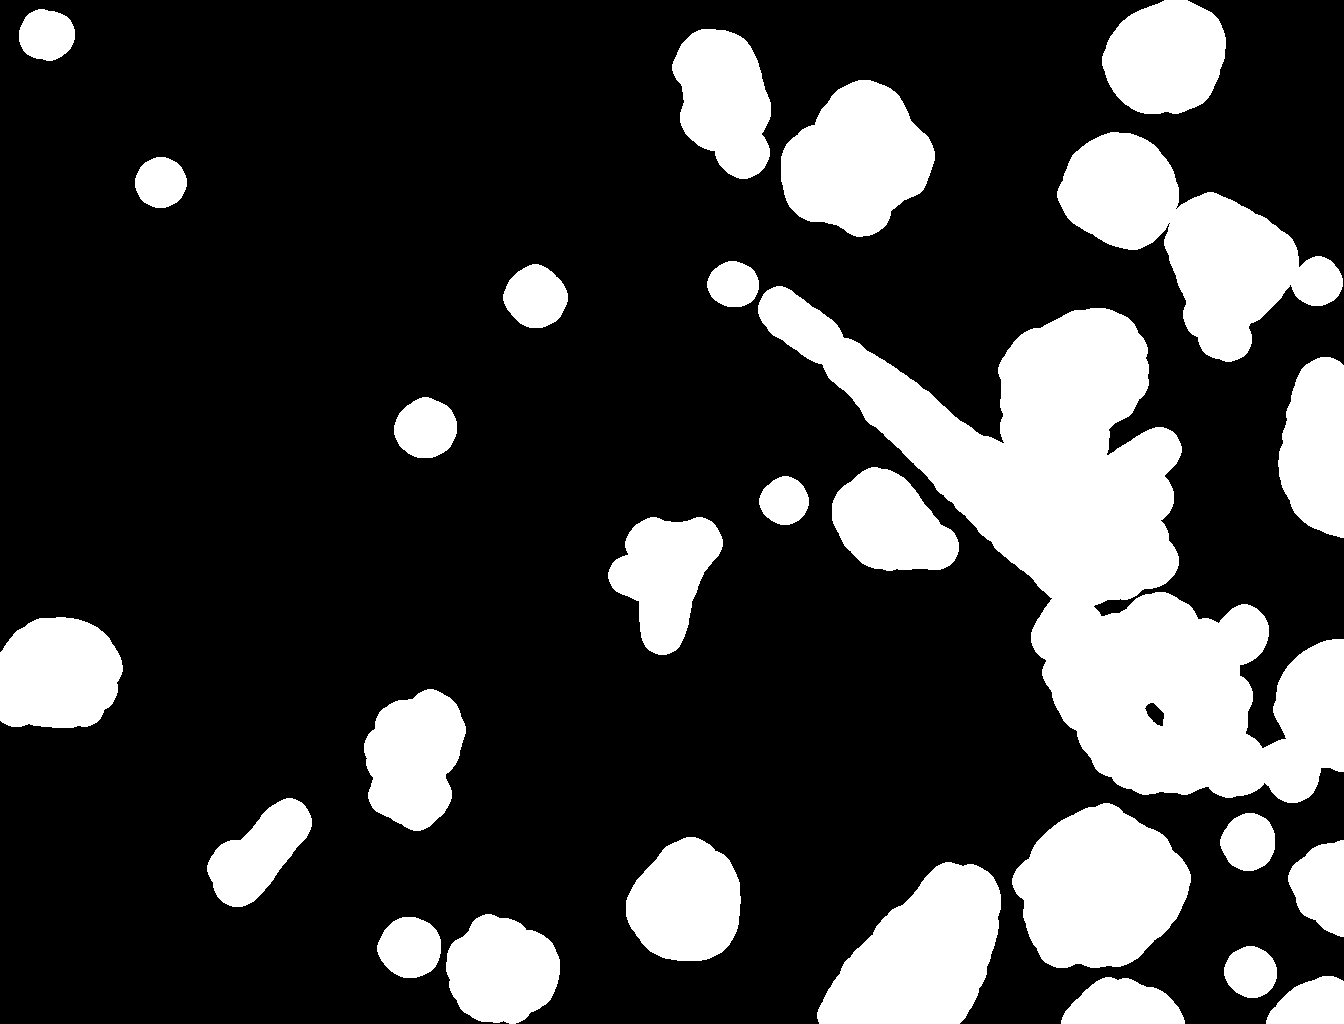
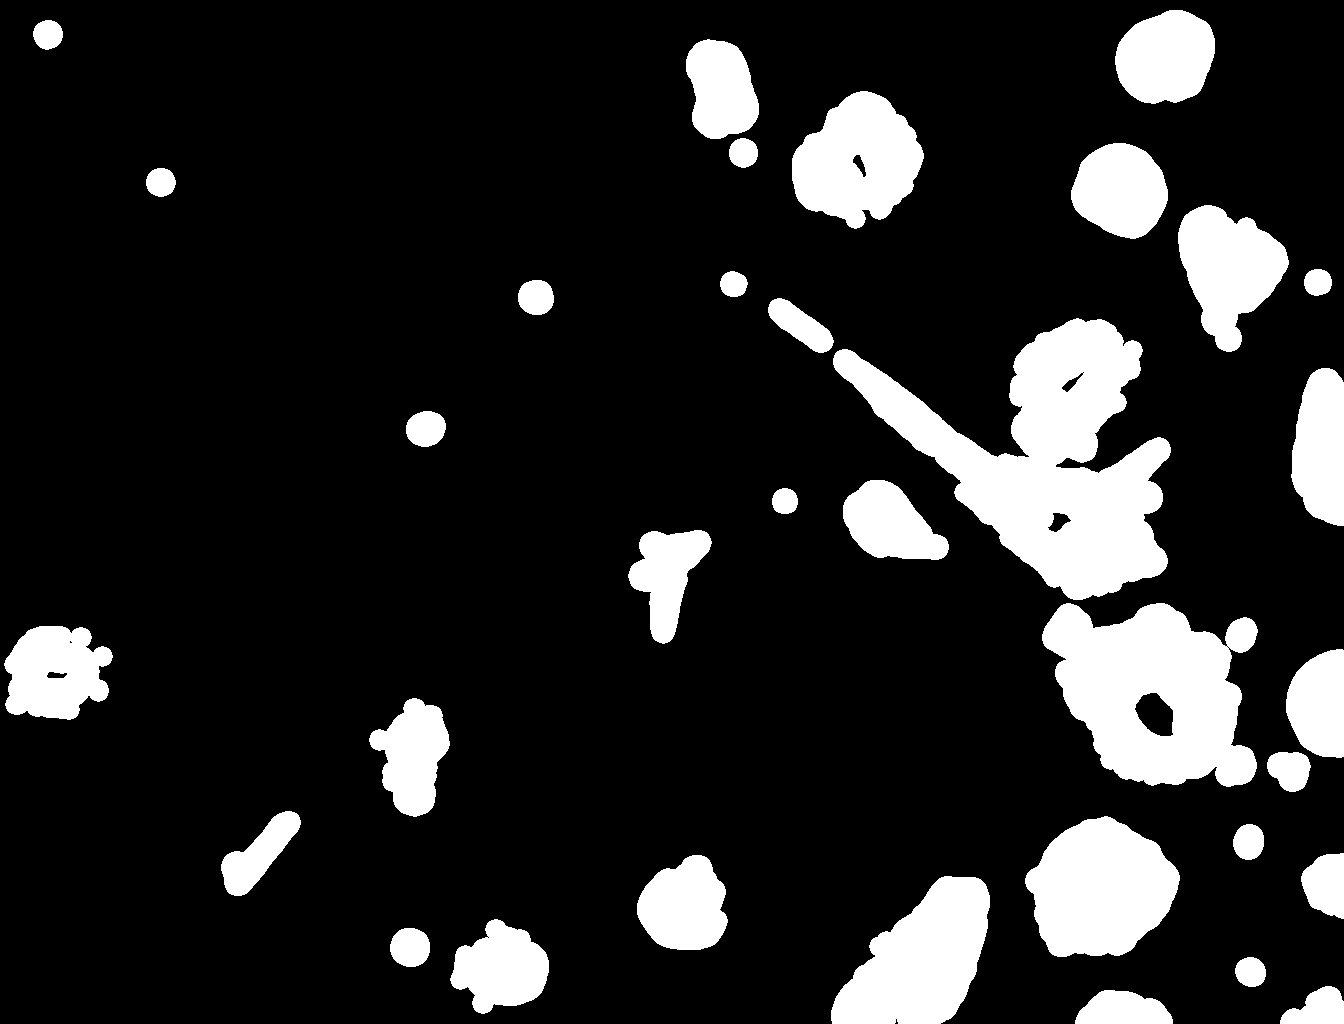
Command line args, update readme

diff --git a/edu/uci/ics/graphics/neurovizj/src/process/Segmentator.java b/edu/uci/ics/graphics/neurovizj/src/process/Segmentator.java
@@ -32,25 +32,15 @@ public class Segmentator {
 		EAST, NORTHEAST, NORTH, NORTHWEST
 	}
 	
-	//test for now
-	public static void main(String[] args){
-		//System.out.println("Hello World!");
-		//InputImage test = new InputImage("1.png");
-		
-		Opener opener = new Opener();
-		IJ.save(segment("1.png"), "test.png"); //TODO: remove when finished testing
-		opener.open("test.png");
-	}
-	
 	/**
 	 * Segments the image located at path
 	 * @param path
 	 * @return
 	 */
-	public static ImagePlus segment(String path){
+	public ImagePlus segment(String path){
 		//long begin = System.nanoTime();
-		InputImage input = new InputImage(path);
 		long begin = System.nanoTime();
+		InputImage input = new InputImage(path);
 		ImageProcessor adjustedImg = input.getAdjusted().getProcessor();
 		//Generate a mask with threshold 0.2*255
 		ImageProcessor adjImg = adjustedImg.duplicate();
@@ -71,12 +61,12 @@ public class Segmentator {
 		en.copyBits(minSuppres, 0, 0, Blitter.MULTIPLY);
 		
 		//Detect edges
-		ImageProcessor e = canny(en, .1);
+		ImageProcessor e = canny(en, Math.sqrt(2));
 		//Canny_Edge_Detector cn = new Canny_Edge_Detector();
 		//ImageProcessor e = cn.process(en);
 		
 		//dilate the image
-		filter.rank(e, 10, RankFilters.MAX);
+		//filter.rank(e, 10, RankFilters.MAX);
 		
 		//negate image
 		
@@ -88,16 +78,16 @@ public class Segmentator {
 		Double min_size = 0.0;
 		Double max_size = Double.POSITIVE_INFINITY;
 		ParticleAnalyzer pa = new ParticleAnalyzer(ParticleAnalyzer.SHOW_RESULTS, 0, rt, min_size, max_size);
-		pa.analyze(imp);
+		//pa.analyze(imp);
 		//e = imp.getProcessor();
 		e.invert();
 		
-		filter.rank(e, 5, RankFilters.OPEN);
+		//filter.rank(e, 5, RankFilters.OPEN);
 		
 		//smoothing
 		e = e.convertToByteProcessor();
 		adjImg = adjImg.convertToFloatProcessor();
-		e.copyBits(adjImg, 0, 0, Blitter.MULTIPLY);
+		//e.copyBits(adjImg, 0, 0, Blitter.MULTIPLY);
 		//e.blurGaussian(10);
 		
 		
@@ -221,8 +211,8 @@ public class Segmentator {
 		ImageProcessor result = new ByteProcessor(x.getWidth(), x.getHeight());
 		for(int i = 0; i < x.getWidth(); i++){
 			for(int j = 0; j < x.getHeight(); j++){
-				double xCoord = x.get(i,j);
-				double yCoord = y.get(i,j);
+				double xCoord = Float.intBitsToFloat(x.get(i,j));
+				double yCoord = Float.intBitsToFloat(y.get(i,j));
 				double mag = g[i+1][j+1];
 				double trueAngle = Math.atan(yCoord/xCoord);
 				Direction dir = approxAngle(trueAngle);

diff --git a/edu/uci/ics/graphics/neurovizj/src/main/Main.java b/edu/uci/ics/graphics/neurovizj/src/main/Main.java
@@ -1,0 +1,33 @@
+package edu.uci.ics.graphics.neurovizj.src.main;
+
+import edu.uci.ics.graphics.neurovizj.src.process.Segmentator;
+import ij.IJ;
+import ij.io.Opener;
+
+public class Main {
+	
+	static String oName = "output.png";
+	static String iName = "input.png";
+	static boolean segment = false;
+
+	public static void main(String[] args) {
+		// TODO Auto-generated method stub
+		for(int i = 0; i < args.length; i++){
+			if(args[i].equals("-i")){
+				iName = args[++i];
+			} else if (args[i].equals("-o")){
+				oName = args[++i];
+			} else if (args[i].equals("-s")){
+				segment = true;
+			}
+		}
+		
+		if(segment){
+			Opener opener = new Opener();
+			Segmentator segmentator = new Segmentator();
+			IJ.save(segmentator.segment(iName), oName); //TODO: remove when finished testing
+			opener.open("test.png");
+		}
+	}
+
+}

diff --git a/README.md b/README.md
@@ -6,3 +6,10 @@ to perform cell tracking and data collection.
 
 This project is based off of NeuroViz and is developed in Java, using
 ImageJ as an image processing library.
+
+Usage
+=====
+
+`-i input_name` -- Specifies the name of the input file. Default is "input.png"
+`-o output_name` -- Specifies the name of the output file. Default is "output.png"
+`-s` -- Specifies that we will perform segmentation on the input image.
